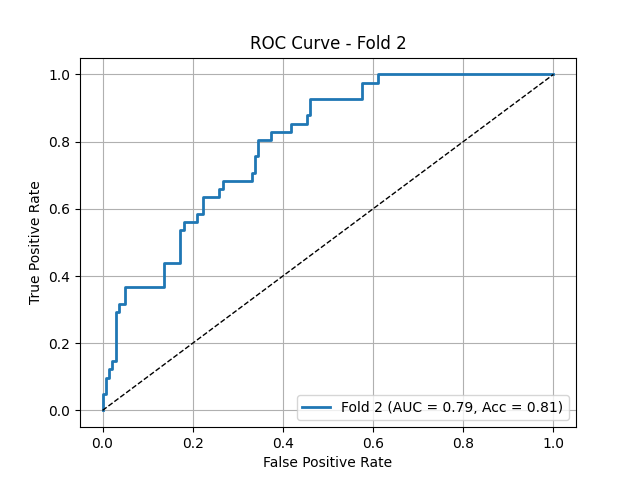
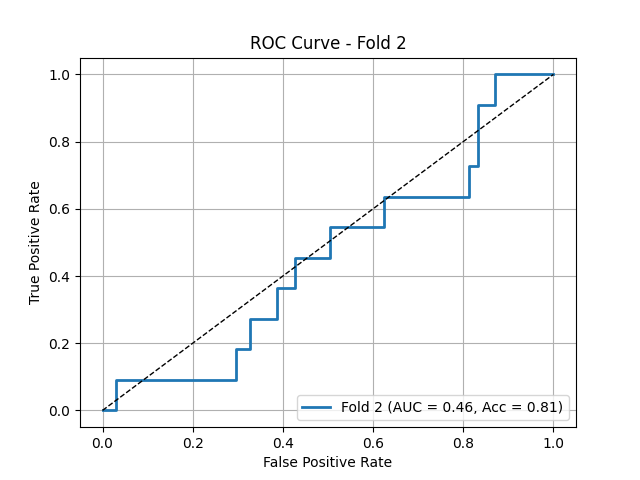
multistage fusion

diff --git a/fusion_models2.py b/fusion_models2.py
@@ -1,0 +1,363 @@
+import torch
+import torch.nn as nn
+import torch.nn.functional as F
+import timm
+import random
+import torch
+import torch.nn as nn
+import torch.nn.functional as F
+from torch.utils.data import DataLoader
+from torchvision.utils import make_grid
+from sklearn.metrics import accuracy_score, roc_auc_score
+import numpy as np
+import os
+import torch.nn as nn
+import pytorch_lightning as pl
+import torch.nn.functional as F 
+import torch 
+import torchvision.utils as vutils
+import wandb
+import torch
+from torchmetrics.classification import BinaryAccuracy
+import torchmetrics
+from torchmetrics.classification import MulticlassAccuracy, MulticlassAUROC
+from torchvision.models import resnet18 , ResNet18_Weights
+import torchvision 
+
+
+import torch.nn as nn
+import segmentation_models_pytorch as smp
+
+
+class AsymmetricLoss(nn.Module):
+    def __init__(self, gamma_pos=0, gamma_neg=4, clip=0.05, eps=1e-8):
+        super(AsymmetricLoss, self).__init__()
+        self.gamma_pos = gamma_pos
+        self.gamma_neg = gamma_neg
+        self.clip = clip
+        self.eps = eps
+
+    def forward(self, inputs, targets):
+        inputs_sigmoid = torch.sigmoid(inputs)
+        inputs_sigmoid = torch.clamp(inputs_sigmoid, self.eps, 1 - self.eps)
+
+        if self.clip is not None and self.clip > 0:
+            inputs_sigmoid = (inputs_sigmoid - self.clip).clamp(min=0, max=1)
+
+        targets = targets.float()
+        loss_pos = targets * torch.log(inputs_sigmoid) * (1 - inputs_sigmoid) ** self.gamma_pos
+        loss_neg = (1 - targets) * torch.log(1 - inputs_sigmoid) * inputs_sigmoid ** self.gamma_neg
+        loss = -loss_pos - loss_neg
+        return loss.mean()
+    
+class FocalLoss(nn.Module):
+    def __init__(self, alpha=0.25, gamma=3.0, reduction='mean'):
+        super(FocalLoss, self).__init__()
+        self.alpha = alpha
+        self.gamma = gamma
+        self.reduction = reduction
+
+    def forward(self, inputs, targets):
+        bce_loss = F.binary_cross_entropy_with_logits(inputs, targets, reduction='none')
+        probs = torch.sigmoid(inputs)
+        p_t = targets * probs + (1 - targets) * (1 - probs)
+        alpha_t = targets * self.alpha + (1 - targets) * (1 - self.alpha)
+        loss = alpha_t * (1 - p_t) ** self.gamma * bce_loss
+        return loss.mean() if self.reduction == 'mean' else loss.sum()
+
+class AttentionFusion(nn.Module):
+    def __init__(self, embed_dim, num_modalities=4):
+        super().__init__()
+        self.query = nn.Linear(embed_dim, embed_dim)
+        self.key = nn.Linear(embed_dim, embed_dim)
+        self.value = nn.Linear(embed_dim, embed_dim)
+        self.scale = embed_dim ** 0.5
+
+    def forward(self, x):  # x: (B, M, D) where M=modalities, D=embed_dim
+        Q = self.query(x)  # (B, M, D)
+        K = self.key(x)    # (B, M, D)
+        V = self.value(x)  # (B, M, D)
+
+        attn_scores = torch.matmul(Q, K.transpose(-2, -1)) / self.scale  # (B, M, M)
+        attn_weights = torch.softmax(attn_scores, dim=-1)                # (B, M, M)
+        fused = torch.matmul(attn_weights, V)                            # (B, M, D)
+
+        # Optionally pool across modalities (e.g., mean)
+        return fused.mean(dim=1)  # (B, D)
+
+class MultiModalCancerClassifierWithAttention(nn.Module):
+    def __init__(self, out_dim=1, fusion_dim=256, backbone_name='resnet18', dropout_prob=0.25):
+        super().__init__()
+        self.num_modalities = 3
+        self.dropout_prob = dropout_prob
+
+        # Independent backbones
+        self.backbones = nn.ModuleList([
+            timm.create_model(backbone_name, pretrained=True, num_classes=0)
+            for _ in range(self.num_modalities)
+        ])
+        self.backbone_out_dim = self.backbones[0].num_features
+
+        # Project each modality to common fusion_dim
+        self.projs = nn.ModuleList([
+            nn.Linear(self.backbone_out_dim, fusion_dim)
+            for _ in range(self.num_modalities)
+        ])
+
+        # Fusion module: attention-based
+        self.attn_fusion = AttentionFusion(embed_dim=fusion_dim, num_modalities=self.num_modalities)
+
+        # Final classifier
+        self.classifier = nn.Sequential(
+            nn.Linear(fusion_dim, 128),
+            nn.ReLU(),
+            nn.Dropout(0.3),
+            nn.Linear(128, out_dim)
+        )
+
+    def forward(self, imgs):  # imgs: list of 4 tensors, each (B, 1, 256, 256)
+        B = imgs[0].shape[0]
+        device = imgs[0].device
+
+        fused_feats = []
+        for i in range(self.num_modalities):
+            x = imgs[i]
+
+            # Modality dropout (like CoAtNet)
+            if self.training and random.random() < self.dropout_prob:
+                # Replace with zero vector
+                fused_feats.append(torch.zeros(B, self.projs[i].out_features, device=device))
+                continue
+
+            # Convert grayscale → RGB
+            if x.shape[1] == 1:
+                x = x.repeat(1, 3, 1, 1)
+
+            feat = self.backbones[i](x)         # (B, backbone_out_dim)
+            proj_feat = self.projs[i](feat)     # (B, fusion_dim)
+            fused_feats.append(proj_feat)
+
+        # Stack and fuse: shape (B, M, D)
+        fused_stack = torch.stack(fused_feats, dim=1)  # (B, 4, fusion_dim)
+        fused_output = self.attn_fusion(fused_stack)   # (B, fusion_dim)
+
+        out = self.classifier(fused_output)            # (B, 1)
+        return out.squeeze()
+
+class SDFModel(nn.Module):
+    def __init__(self):
+        super(SDFModel, self).__init__()
+        self.backbone = smp.DeepLabV3Plus(
+            encoder_name="resnet34",
+            encoder_weights="imagenet",
+            in_channels=1,
+            classes=1
+        )
+        self.activation = nn.Tanh()
+
+    def forward(self, x):
+        x = self.backbone(x)        # Output shape: (B, 1, H, W)
+        x = self.activation(x)      # Output in [-1, 1]
+        return x
+
+
+import torch
+import torch.nn as nn
+import torch.nn.functional as F
+import timm
+import random
+
+class PairwiseFusion(nn.Module):
+    def __init__(self, in_dim, out_dim):
+        super().__init__()
+        self.fusion = nn.Sequential(
+            nn.Linear(in_dim * 2, out_dim),
+            nn.ReLU(),
+            nn.Dropout(0.2),
+            nn.Linear(out_dim, out_dim)
+        )
+
+    def forward(self, f1, f2):
+        x = torch.cat([f1, f2], dim=1)
+        return self.fusion(x)
+
+class AttentionFusion(nn.Module):
+    def __init__(self, embed_dim):
+        super().__init__()
+        self.query = nn.Linear(embed_dim, embed_dim)
+        self.key = nn.Linear(embed_dim, embed_dim)
+        self.value = nn.Linear(embed_dim, embed_dim)
+        self.scale = embed_dim ** 0.5
+
+    def forward(self, x):  # x: (B, M, D)
+        Q = self.query(x)
+        K = self.key(x)
+        V = self.value(x)
+
+        attn_scores = torch.matmul(Q, K.transpose(-2, -1)) / self.scale  # (B, M, M)
+        attn_weights = torch.softmax(attn_scores, dim=-1)
+        fused = torch.matmul(attn_weights, V)  # (B, M, D)
+        return fused.mean(dim=1)  # (B, D)
+
+class MultiStageFusionClassifier(nn.Module):
+    def __init__(self, out_dim=1, backbone='resnet18', feature_dim=256, pair_fusion_dim=256):
+        super().__init__()
+        self.num_modalities = 3
+        self.feature_dim = feature_dim
+
+        # Backbone per modality
+        self.backbones = nn.ModuleList([
+            timm.create_model(backbone, pretrained=True, num_classes=0)
+            for _ in range(self.num_modalities)
+        ])
+        backbone_output_dim = self.backbones[0].num_features
+        self.projs = nn.ModuleList([
+            nn.Linear(backbone_output_dim, feature_dim)
+            for _ in range(self.num_modalities)
+        ])
+
+        # Stage 1: Pairwise fusion
+        self.pair1 = PairwiseFusion(feature_dim, pair_fusion_dim)
+        self.pair2 = PairwiseFusion(feature_dim, pair_fusion_dim)
+
+        # Stage 2: Fuse the pair outputs
+        self.middle_fusion = PairwiseFusion(pair_fusion_dim, pair_fusion_dim)
+
+        # Stage 3: Attention over pair + mid-level
+        self.attn_fusion = AttentionFusion(embed_dim=pair_fusion_dim)
+
+        # Final classifier
+        self.classifier = nn.Sequential(
+            nn.Linear(pair_fusion_dim, 128),
+            nn.ReLU(),
+            nn.Dropout(0.3),
+            nn.Linear(128, out_dim)
+        )
+
+    def forward(self, imgs):  # imgs: list of 4 tensors (B, 1, 256, 256)
+        B = imgs[0].shape[0]
+        device = imgs[0].device
+
+        feats = []
+        for i in range(3):
+            x = imgs[i]
+            if x.shape[1] == 1:
+                x = x.repeat(1, 3, 1, 1)  # Grayscale → RGB
+            feat = self.backbones[i](x)
+            feat = self.projs[i](feat)
+            feats.append(feat)
+
+        # Stage 1: pairwise fusion
+        fused_12 = self.pair1(feats[0], feats[1])
+        fused_34 = self.pair2(feats[0], feats[2])
+
+        # Stage 2: middle fusion
+        fused_mid = self.middle_fusion(fused_12, fused_34)
+
+        # Stage 3: attention across [f12, f34, fmid]
+        stack_all = torch.stack([fused_12, fused_34, fused_mid], dim=1)  # (B, 3, D)
+        fused = self.attn_fusion(stack_all)
+
+        # Final prediction
+        out = self.classifier(fused)
+        return out.squeeze()
+
+
+class BinaryClassificationTorch(nn.Module):
+    def __init__(self, input_dim=64, output_size = 5, num_classes=1, radiomics=False, radiomics_dim=463,
+                 encoder_weight_path=None, sdf_model_path=None):
+        super().__init__()
+
+        self.input_size = input_dim
+        self.hidden_sizes = [512, 128, 64, 32]
+        self.hidden_sizes2 = [64, 32]
+        self.output_size = output_size 
+        self.radiomics = radiomics
+
+        self.sdf_model = SDFModel()
+        self.sdf_model.load_state_dict(torch.load(sdf_model_path))
+        for p in self.sdf_model.parameters(): p.requires_grad = False
+
+        self.fusion_model = MultiStageFusionClassifier() #MultiModalCancerClassifierWithAttention()
+
+        self.loss_fn = FocalLoss()
+        self.loss_fn2 = nn.BCEWithLogitsLoss(pos_weight=torch.tensor([3.0]))
+
+    def normalize_sdf(self, sdf_image):
+        sdf_image = (sdf_image - sdf_image.min()) / (sdf_image.max() - sdf_image.min() + 1e-8)
+        return sdf_image * 2 - 1
+
+    def forward(self, x, x2_radiomics=None):
+        x_sdf = self.sdf_model(x)
+        x_sdf = self.normalize_sdf(x_sdf)
+
+        lower_thresh = torch.empty(1).uniform_(-0.45, -0.15).item()
+        upper_thresh = torch.empty(1).uniform_(0.35, 0.65).item()
+        center_thresh = torch.empty(1).uniform_(0.1, 0.25).item()
+
+        boundary_mask = (x_sdf < upper_thresh) & (x_sdf > lower_thresh)
+        center_mask = (x_sdf < center_thresh)
+
+        x3 = x * boundary_mask
+        x4 = x * center_mask
+
+        output = self.fusion_model([x, x3, x4])
+
+        return output
+
+
+    def compute_loss(self, x, y, x2_rad=None):
+        if x2_rad is not None:
+            score, tails = self.forward(x, x2_rad)
+            loss = self.loss_fn(score, y.float()) + sum(self.loss_fn(t, y.float()) for t in tails)
+        else:
+            score = self.forward(x)
+            loss = (self.loss_fn(score, y.float()) * 0.5 +
+                    self.loss_fn2(score, y.float()) * 0.5)
+                   
+        return loss
+
+    def predict_on_loader(self, dataloader):
+        self.eval()
+        all_probs, all_targets = [], []
+
+        device = next(self.parameters()).device  # Automatically detect model's device
+
+        with torch.no_grad():
+            for batch in dataloader:
+                if len(batch) == 2:
+                    x, y = batch
+                    x, y = x.to(device), y.to(device)
+                    scores = self.forward(x)
+                    
+                else:
+                    x, x2, y = batch
+                    x, x2, y = x.to(device), x2.to(device), y.to(device)
+                    scores = self.forward(x, x2)
+
+                probs = torch.sigmoid(scores)
+                all_probs.append(probs.cpu())
+                all_targets.append(y.cpu())
+
+        return torch.cat(all_targets).numpy(), torch.cat(all_probs).numpy()
+
+if __name__ == "__main__":
+    model = MultiStageFusionClassifier() #MultiModalCancerClassifierWithAttention()
+    img1 = torch.randn(8, 1, 256, 256)
+    img2 = torch.randn(8, 1, 256, 256)
+    img3 = torch.randn(8, 1, 256, 256)
+    img4 = torch.randn(8, 1, 256, 256)
+
+    output = model([img1, img2, img3]) #, img4])  # shape: (8,)
+
+    print(output)
+
+
+
+    model = BinaryClassificationTorch(input_dim= 64, num_classes= 1,  
+                                 encoder_weight_path = r"checkpoints\normtverskyloss_binary_segmentation\a56e77a\best-checkpoint-epoch=77-validation\loss=0.2544.ckpt", 
+                                 sdf_model_path= r"checkpoints\deeplabv3_sdf_randomcrop\model_20250711_201243\epoch_84",
+                                 radiomics= False)
+    print(model)
+    model.eval()
+    print(model(torch.randn(1, 1,256, 256))) #, torch.randn(1, 1,256, 256)).shape)

diff --git a/train_fusion_model.py b/train_fusion_model.py
@@ -9,7 +9,7 @@ import matplotlib.pyplot as plt
 from datetime import datetime
 from sklearn.metrics import roc_curve, auc
 from torch.utils.data import DataLoader
-from fusion_models import BinaryClassificationTorch
+from fusion_models2 import BinaryClassificationTorch
 from dataset_washu2 import Classificaiton_Dataset
 from utils import plot_roc_curve, compute_weighted_accuracy
 from tqdm import tqdm 
